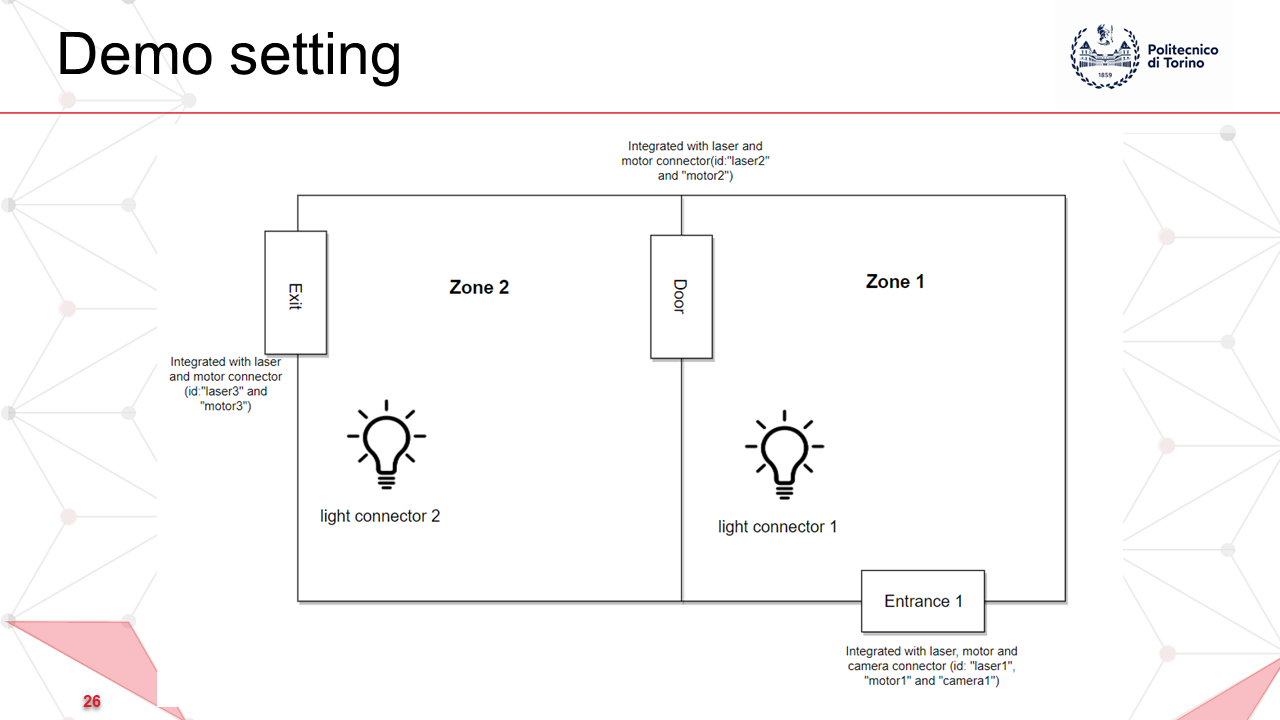
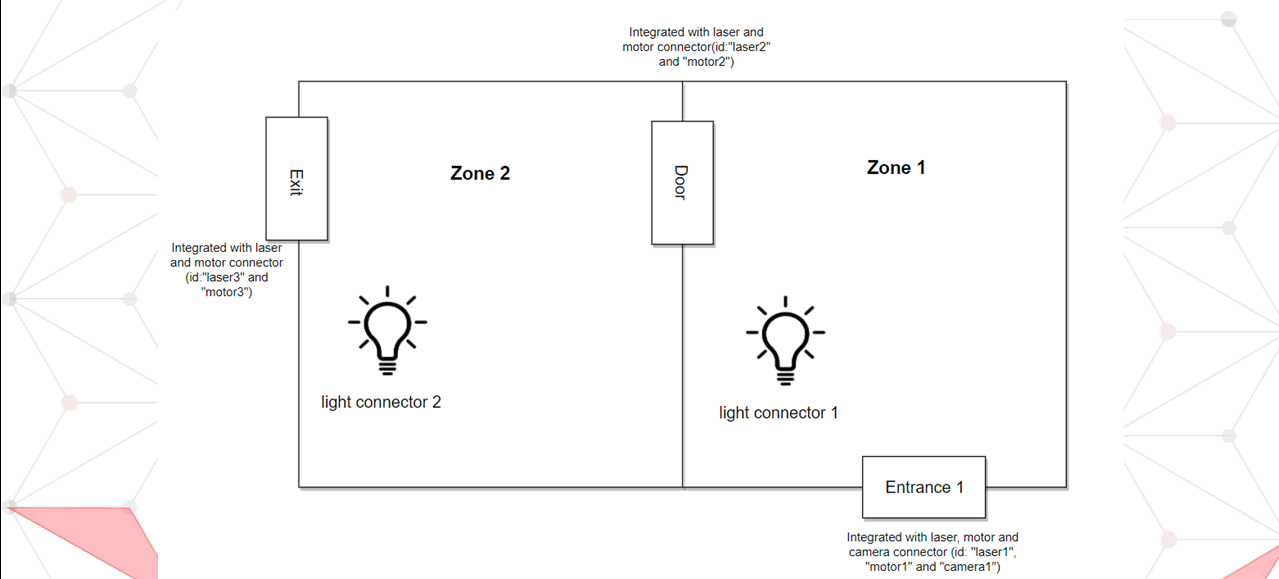
update readme

diff --git a/control/motorControl.py b/control/motorControl.py
@@ -119,7 +119,7 @@ class motorcontrol():
 if __name__ == "__main__":
     configFile = input("Enter the location of configuration file: ")
     if len(configFile) == 0:
-        configFile = "./configs/motorcontrol.json"
+        configFile = "./configs/motorControl.json"
     motorcontrol = motorcontrol(configFile)
     motorcontrol.start()
     print("motor control service running...")

diff --git a/README.md b/README.md
@@ -5,8 +5,8 @@ As the figure shows, the  proposed IoT platform follows the micorservices design
 
 Links:
 * Promote video:
-* Demo video: 
-* Slides:
+* Demo video: https://youtu.be/iSZdo9Ff_Rs
+* Slide:https://drive.google.com/file/d/1-7RdZlh6kCs2okBo71eJYsPS2evNAuPa/view?usp=sharing
 
 # Environment requirement
 * System:           Ubuntu 20.04
@@ -23,7 +23,7 @@ $ cd SMART-MUSEUM-MANAGEMENT-SYSTEM/ && git pull
 
 # Run Demo
 The setting of the demo is shown in the figure. Assume we have a small museum with only two zones and three doors. Each zone has a light connector. The main entrance is integrated with laser, motor and camera connector.  The  door and the exit will integrate with laser and motor connector. However, the motor connector on exit will work in “exit” mode, which only allow visitors to leave the museum.
-![demo setting](https://github.com/Rexyyj/SMART-MUSEUM-MANAGEMENT-SYSTEM/blob/master/figures/demo.png)
+![demo setting](figures/demo.png)
 ## Step 1: Run home catalog
 ```bash
 # Create a docker container with ip address 172.17.0.2
@@ -32,10 +32,52 @@ $ python3 homeCat.py
 # Enter the configureation(For test demo, use ip: 172.17.0.2 and port: 8090)
 ```
 
-## Step 3: Run devices
+## Step 2: Run device connectors
+Use the similar command below to launch the needed device connectors.
+After the entire system is launched, you can use the command on screen to control the devices.
 ```bash
 # Create a docker container and enter the project
 $ cd connectors
-$ python3 homeCat.py
-# Enter the configureation(For test demo, use ip: 172.17.0.2 and port: 8090)
+$ python3 laserconnector.py
+# Use the configureation file ./test_config/laser1.json
 ```
+Note: 
+1. For a camera connector, it should run outside docker container (current docker image is not installed with opencv).
+2. For a camera connector, an Imagemanager should also be launch together.
+   
+## Step 4: Run control services
+```bash
+# Create a new docker container and enter the project
+$ cd control
+$ python3 crowdControl.py
+# Use the configureation file ./configs/crowdControl.json
+
+# Create a new docker container and enter the project
+$ cd control
+$ python3 cameraControl.py
+# Use the configureation file ./configs/cameraControl.json
+
+# Create a new docker container and enter the project
+$ cd control
+$ python3 motorControl.py
+# Use the configureation file ./configs/motorControl.json
+
+# Create a new docker container and enter the project
+$ cd control
+$ python3 lightControl.py
+# Use the configureation file ./configs/lightControl.json
+```
+
+## Step 5: Run Telegram bot and dashboard backend
+These two service should be launched outside docker container.
+Before launch, remember to modify the ip address on the config file to the ip address of your host.
+```bash
+# In a new terminal
+$ cd teleBot
+$ python3 Telegram.py
+
+# In a new terminal
+$ cd dashboard
+$ python3 Dashboard.python
+```
+Note: If you want to open the dashboard on a smartphone, the smart phone should be in the same sub-new with the host.
